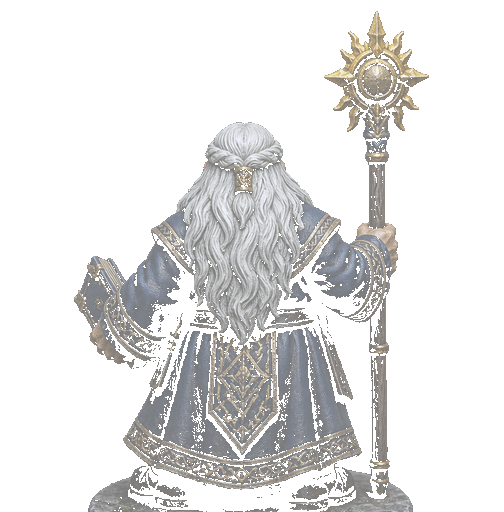
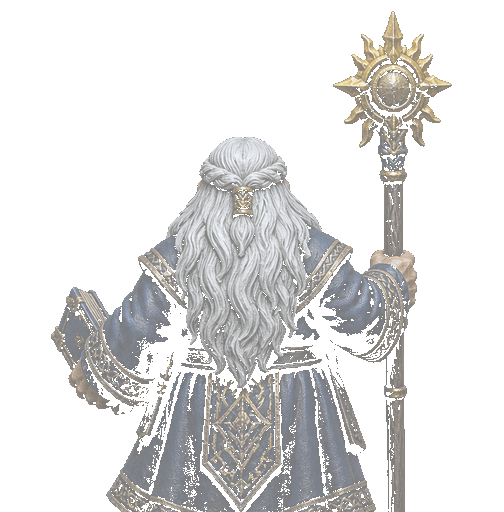
Bind Talpor ghost back without miniature disc (ASSET_VER 90). (#185)

Changed region(s): [[0.0893, 0.0312, 0.8929, 1.0]]

diff --git a/src/ui/Ch1RubbleLoad.test.js b/src/ui/Ch1RubbleLoad.test.js
@@ -45,7 +45,7 @@ assert(!/else if\(okTex\)\{/.test(html),
   'generated TEX diamonds are not a first-frame floor/wall fallback');
 assert(/tile_floor_mine\.png\?v=60/.test(html) && /tile_wall_worked\.png\?v=60/.test(html),
   'mine floor and worked wall are preloaded before first present');
-assert(/ASSET_VER='89'/.test(html), 'asset cache-bust matches punched living-Macar sheets');
+assert(/ASSET_VER='90'/.test(html), 'asset cache-bust matches punched living-Macar sheets');
 assert(/function scatterBurialRubble\(/.test(html) && /fallen:1/.test(html) && /k:'dust'/.test(html),
   'cave-in entry scatters extra timber, stone, and dust around the burial');
 assert(/function drawFallenBeam\(/.test(html) && /function drawFloorDust\(/.test(html),

diff --git a/src/combat/ElvenkindBoots.test.js b/src/combat/ElvenkindBoots.test.js
@@ -23,7 +23,7 @@ function extractFn(name){
   return m[0];
 }
 
-assert(/ASSET_VER='89'/.test(html), 'ASSET_VER is unchanged');
+assert(/ASSET_VER='90'/.test(html), 'ASSET_VER is unchanged');
 assert(/function wornMoveMul\(/.test(html) && /function moveStep\(/.test(html),
   'wornMoveMul and moveStep exist (extract of move())');
 assert(/function wearingElvenkind\(/.test(html), 'shared wearingElvenkind helper exists');

diff --git a/src/combat/UseMagicItem.test.js b/src/combat/UseMagicItem.test.js
@@ -60,7 +60,7 @@ assert(/nocked|stays packed/.test(useFn), 'plus-shot ammo use is still nock/read
 assert(/EquipmentSlots\.isEquippable\(it\)/.test(useFn),
   'wearable misc (Displacement) dons through isEquippable before the generic buff+heal');
 
-assert(/ASSET_VER='89'/.test(html), 'ASSET_VER is unchanged');
+assert(/ASSET_VER='90'/.test(html), 'ASSET_VER is unchanged');
 
 const ctx={
   G:{equipped:{}},

diff --git a/index.html b/index.html
@@ -351,7 +351,7 @@ const FONT_QUOTE='"Cormorant Garamond",Palatino,Georgia,serif';
 
 /* ---------------------------- painted sprites (Baldur's Gate isometric) ---------------------------- */
 const SPR={};
-const ASSET_VER='89';
+const ASSET_VER='90';
 let SPLASH_STATE='loading';
 function assetUrl(src){
   const u=src+(src.indexOf('?')>=0?'&':'?')+'v='+ASSET_VER;

diff --git a/src/combat/LeftoverMagic.test.js b/src/combat/LeftoverMagic.test.js
@@ -26,7 +26,7 @@ function extractFn(name){
   return m[0];
 }
 
-assert(/ASSET_VER='89'/.test(html), 'ASSET_VER is unchanged');
+assert(/ASSET_VER='90'/.test(html), 'ASSET_VER is unchanged');
 assert(!/id:'vorpal'|id:'bag_of_holding'|id:'arrow_of_slaying'|id:'javelin_of_lightning'/.test(html),
   'no invented leftover-magic item ids');
 
